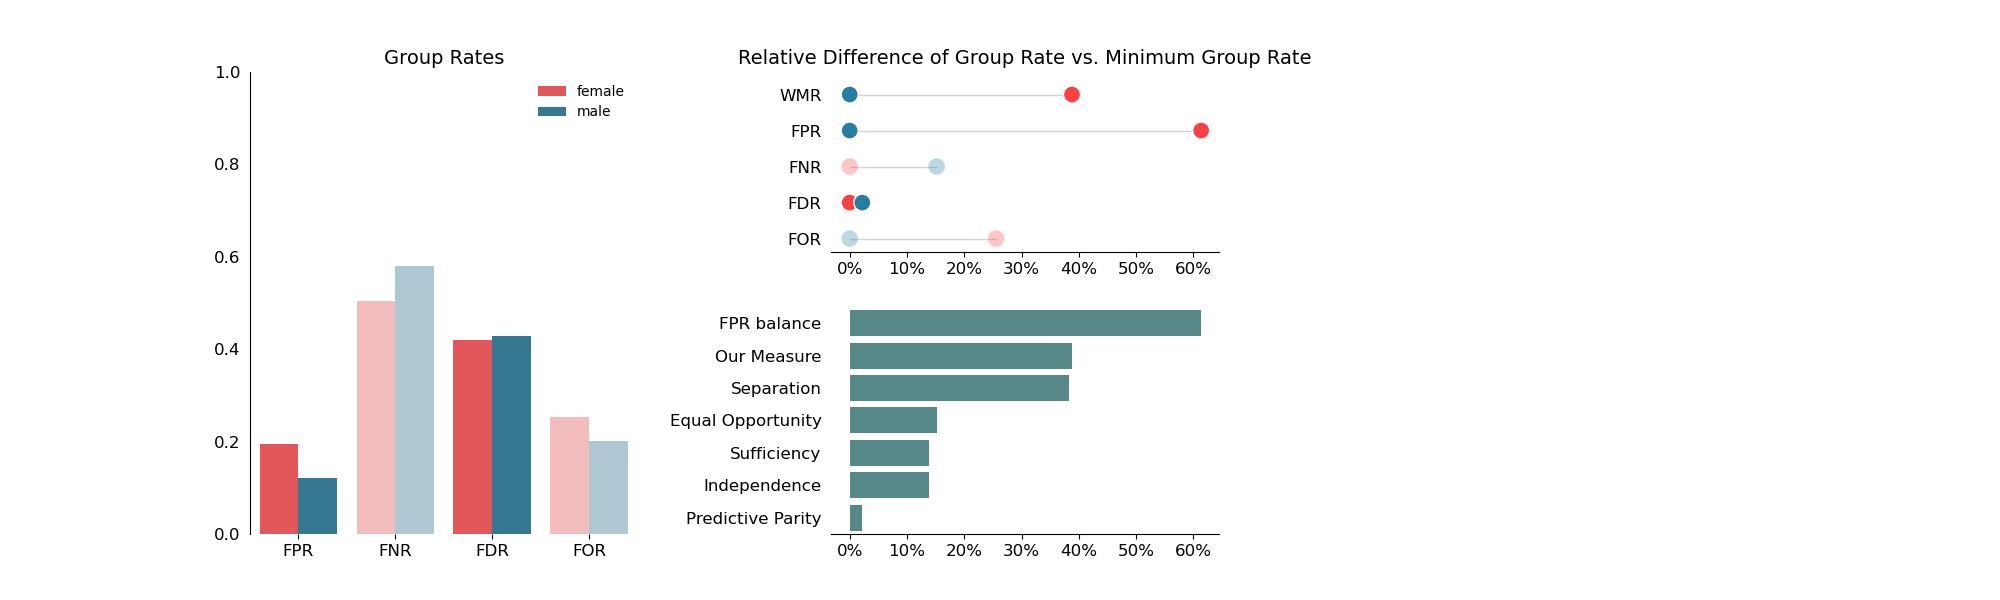
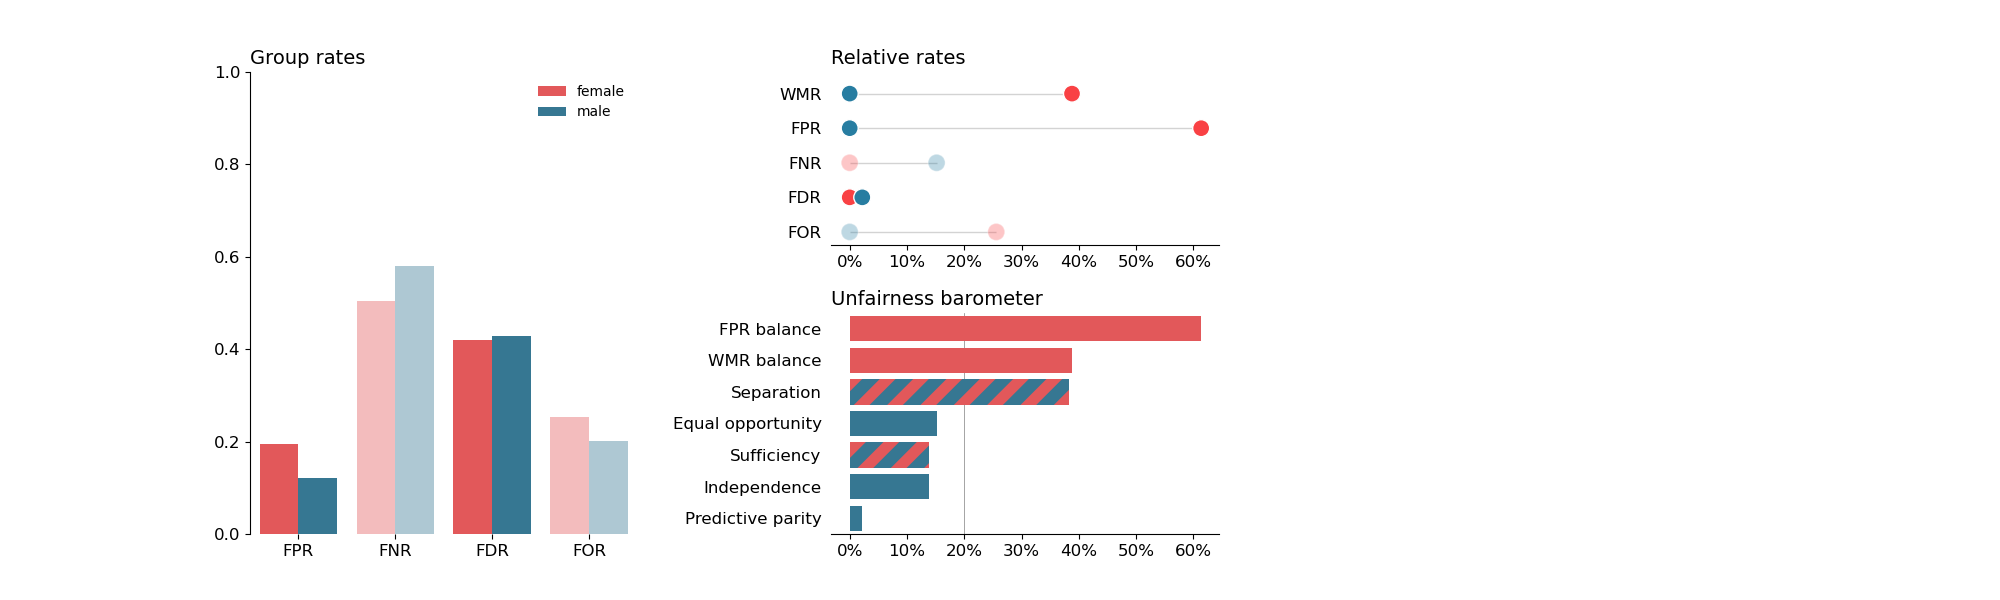
Update all plots

diff --git a/src/evaluation_tool/layered_tool.py b/src/evaluation_tool/layered_tool.py
@@ -168,7 +168,7 @@ class FairKit:
         plt.figure(figsize = (15,5))
         n_grps = len(self.sens_grps)
         if self.model_type != None:
-            plt.suptitle(f'Model: {self.model_type}')
+            plt.suptitle(self.model_type)
 
         # One plot for each group
         for i, grp in enumerate(self.sens_grps):
@@ -347,7 +347,10 @@ class FairKit:
         sns.despine(ax = ax, left = True, top = True, right = True)
         ax.tick_params(left=False, labelsize=12)
         ax.xaxis.set_major_formatter(mtick.FuncFormatter(abs_percentage_tick))
-        add_colors_with_stripes(ax = ax, color_dict = fair_anym.sens_grps_cols, color_variable = plot_df.grp)
+        add_colors_with_stripes(
+            ax = ax, 
+            color_dict = self.sens_grps_cols, 
+            color_variable = plot_df.grp)
     
 
     def l2_plot(self, w_fp = 0.5):
@@ -384,6 +387,6 @@ if __name__ == "__main__":
         a = df.grp, 
         r = df.phat)
     fair_anym.l2_plot(w_fp = 0.7)
-    fair_anym.l2_fairness_criteria_subplot(w_fp = 0.7)
+    #fair_anym.l2_fairness_criteria_subplot(w_fp = 0.7)
     #fair_anym.plot_confusion_matrix()
 #%%

diff --git a/src/evaluation_tool/evaluater.py b/src/evaluation_tool/evaluater.py
@@ -149,7 +149,7 @@ if __name__ == '__main__':
 
         fair_catalan_V2.plot_confusion_matrix()
         plt.savefig(figure_path+'catalan_confusion_V2_nationality_type.png')
-        fair_catalan_V2.l2_plot(w_fp=0.9)
+        fair_catalan_V2.l2_plot(w_fp=catalan_w_fp)
         plt.savefig(figure_path+'catalan_l2_V2_nationality_type.png')
 
     # Sensitive: Area of Origin
@@ -162,7 +162,7 @@ if __name__ == '__main__':
 
         fair_catalan_V4.plot_confusion_matrix()
         plt.savefig(figure_path+'catalan_confusion_V4_area_origin.png')
-        fair_catalan_V4.l2_plot(w_fp=0.9)
+        fair_catalan_V4.l2_plot(w_fp=catalan_w_fp)
         plt.savefig(figure_path+'catalan_l2_V4_area_origin.png')
 
 # %%
